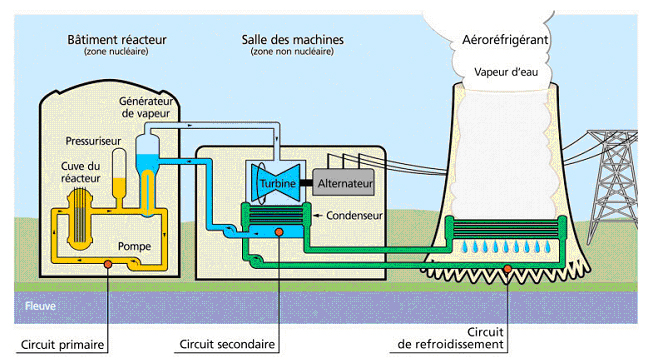
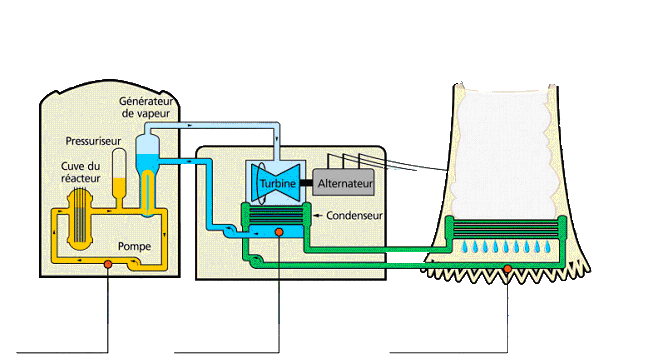
Rajout de la fonction qui affiche la centrale et de la centrale détourée

diff --git a/Graphic/Centrale_tab.cpp b/Graphic/Centrale_tab.cpp
@@ -1,0 +1,44 @@
+#include "Graphic_Fonction.hpp"
+#include "SDL2/sdl2.hpp"
+#include<SDL2/SDL_ttf.h>
+#include<iostream>
+
+void Centrale_tab(){
+    sdl2::font fonte_texte("./data/Lato-Thin.ttf", 18);
+    sdl2::font fonte_titre("./data/Lato-Bold.ttf", 28);
+    // Créer une fenêtre avec un titre et la résolution de la fenêtre (ici 800 x 600 pixels )
+    sdl2::window fenêtre("Nuclear Alert : Schéma de la centrale", {800, 600});
+
+    sdl2::image centrale("data/sch├®ma_centrale.png", fenêtre);
+    centrale.at(100, 100);
+
+    sdl2::texte echap("Appuyez sur echap pour revenir à la fenêtre précédente", fonte_texte, fenêtre, {0xFF, 0xFF, 0xFF, 0xFF});
+    echap.at(200, 500);
+    sdl2::texte circuit_prim("Circuit primaire", fonte_texte, fenêtre, {0xFF, 0xFF, 0xFF, 0xFF});
+    circuit_prim.at(70, 430);
+    sdl2::texte circuit_sec("Circuit secondaire", fonte_texte, fenêtre, {0xFF, 0xFF, 0xFF, 0xFF});
+    circuit_sec.at(230, 430);
+    sdl2::texte circuit_refroid("Circuit de refroidissement", fonte_texte, fenêtre, {0xFF, 0xFF, 0xFF, 0xFF});
+    circuit_refroid.at(400, 430);
+    sdl2::texte vapeur("Vapeur d'eau", fonte_texte, fenêtre, {0xFF, 0xFF, 0xFF, 0xFF});
+    vapeur.at(550, 160);
+
+    bool quitting = false;
+    sdl2::event_queue queue;
+
+    while(not quitting){
+        fenêtre << centrale << echap << circuit_prim << circuit_sec << circuit_refroid << vapeur << sdl2::flush;
+        auto events = queue.pull_events();
+        for(const auto& e : events){
+            if(e->kind_of_event() == sdl2::event::quit) quitting = true;
+            if(e->kind_of_event() == sdl2::event::key){
+                auto& key = dynamic_cast<sdl2::event_keyboard&>(*e);
+                if(key.state() == sdl2::event_keyboard::pressed){
+                    char keychar = key.ascci_code();
+                    if(keychar == 27) quitting = true;
+                }
+                
+            }
+        }
+    }
+}

diff --git a/Graphic/main.cpp b/Graphic/main.cpp
@@ -4,8 +4,7 @@
 
 int main(int argc, char* args[]){
     sdl2::init(argc, args);
-    std::cout << Fenetre_acceuil() << std::endl;
-    std::cout << Choix_Niveau() << std::endl;
+    Centrale_tab();
     sdl2::finalize();
     return 0;
 }

diff --git a/Graphic/Graphic_Fonction.hpp b/Graphic/Graphic_Fonction.hpp
@@ -4,6 +4,7 @@
 
 std::string Fenetre_acceuil();
 int Choix_Niveau();
+void Centrale_tab();
 
 #endif
 
